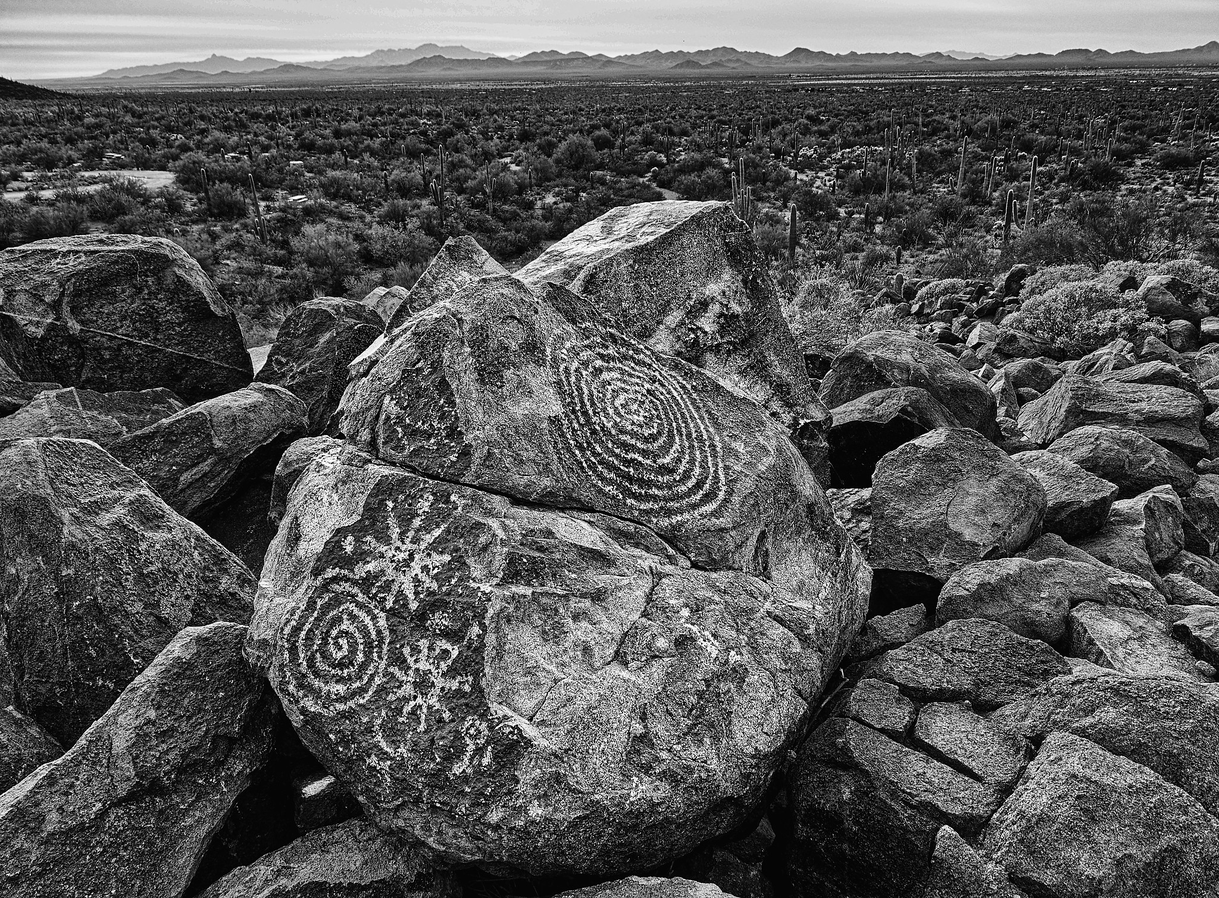
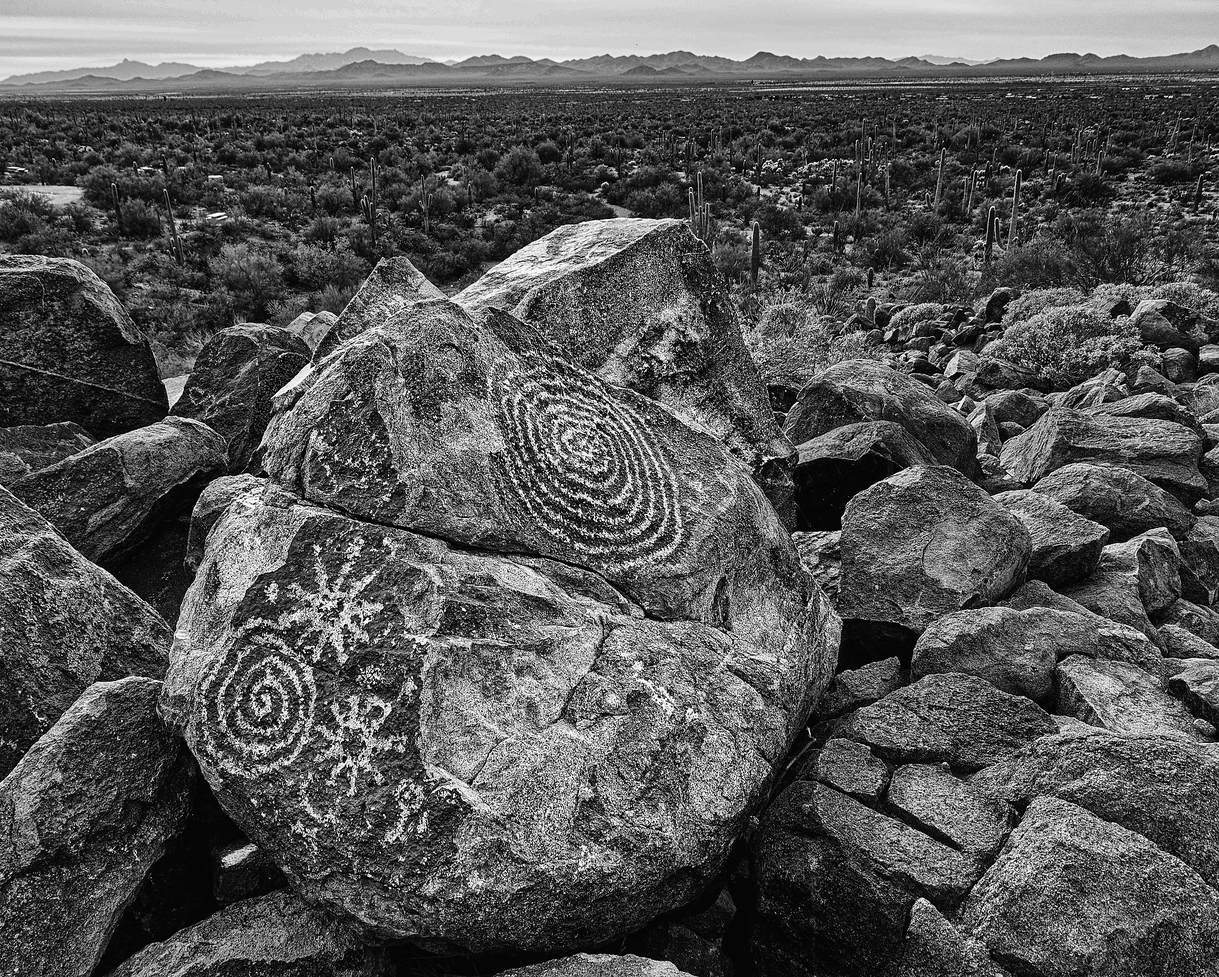
corrections

diff --git a/src/routes/albums/2018US/+page.svelte b/src/routes/albums/2018US/+page.svelte
@@ -131,7 +131,7 @@
 				image: bw05,
 				caption: 'Joshua Tree National Park, California. December, 2018'
 			},
-			{ image: bw05, caption: ' ' }
+			{ image: c05, caption: ' ' }
 		],
 		[
 			{
